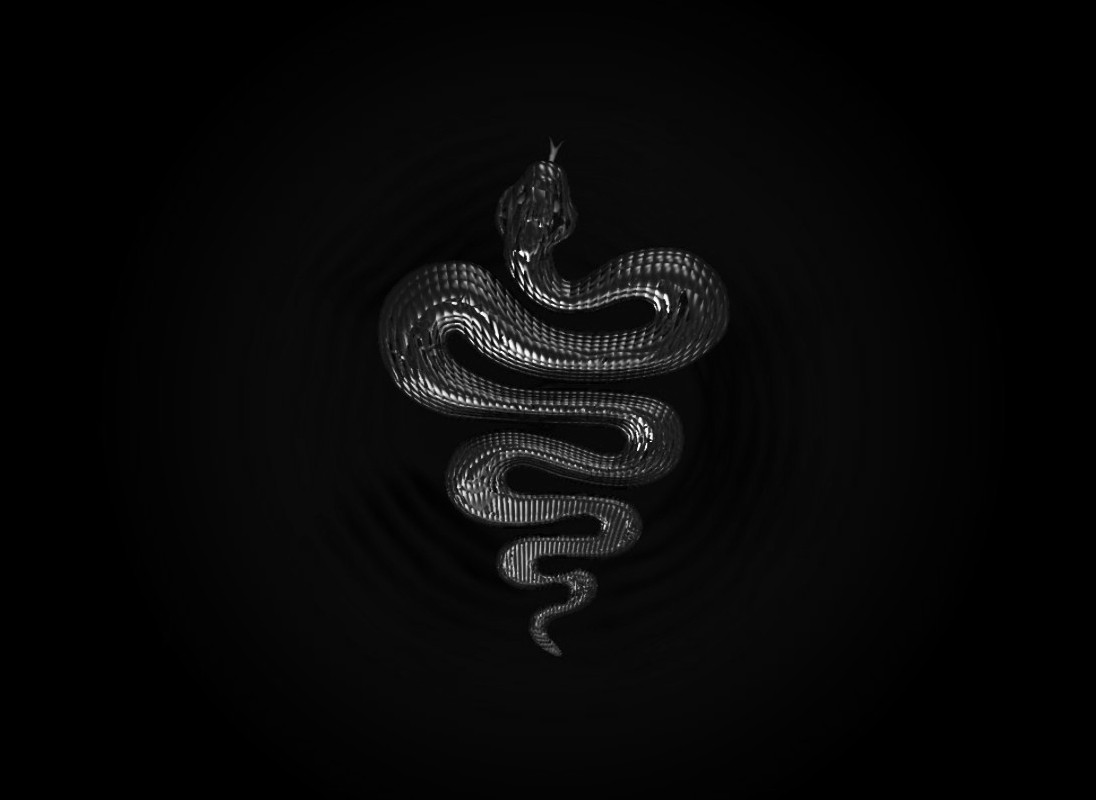
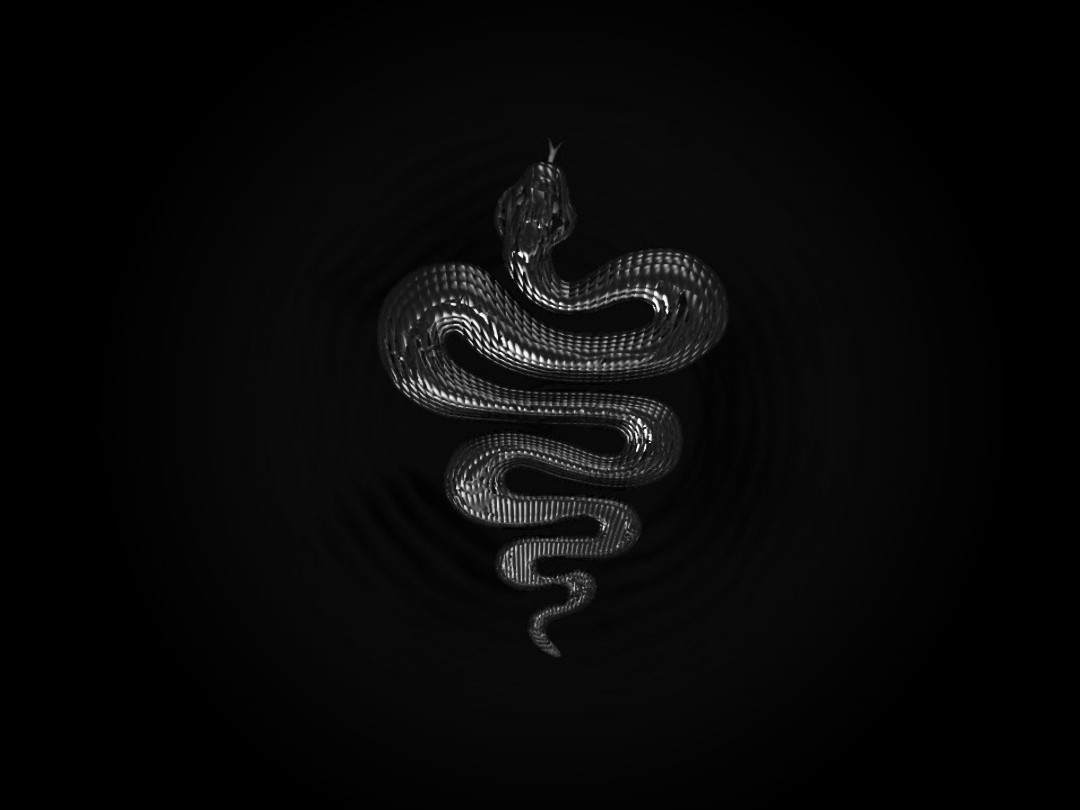
rozmiar okienka

Changed region(s): [[0.3361, 0.1562, 0.6722, 0.8125]]

diff --git a/src/main/java/com/game/GamePanel.java b/src/main/java/com/game/GamePanel.java
@@ -1,5 +1,7 @@
 package com.game;
 
+import com.gui.RootPanel;
+
 import javax.swing.*;
 import java.awt.*;
 import java.awt.event.ActionEvent;
@@ -12,8 +14,8 @@ import static java.awt.Color.*;
 
 public class GamePanel extends JPanel implements ActionListener {
 
-    private static final int SCREEN_HEIGHT = 800;
-    private static final int SCREEN_WIDTH = 1000;
+    private static final int SCREEN_HEIGHT = 810;
+    private static final int SCREEN_WIDTH = 1080;
     private static final int UNIT = 30;
     private static final int GAME_UNIT = (SCREEN_HEIGHT * SCREEN_WIDTH) / UNIT;
     private int[] snakeX = new int[GAME_UNIT];
@@ -27,9 +29,11 @@ public class GamePanel extends JPanel implements ActionListener {
     char direction = 'R';
     private static final int DELAY = 80;
     private int score = 0;
+    RootPanel rootPanel;
 
+    public GamePanel(RootPanel gameFrame) {
+        rootPanel = gameFrame;
 
-    public GamePanel() {
         setLayout(null);
         setBackground(BLACK);
         this.setFocusable(true);

diff --git a/src/main/java/com/gui/RootPanel.java b/src/main/java/com/gui/RootPanel.java
@@ -20,7 +20,7 @@ public class RootPanel extends JRootPane {
         signInMenu = new SignInMenu(this);
         signUpMenu = new SignUpMenu(this);
         scoreBoardMenu = new ScoreBoardMenu(this);
-        gamePanel = new GamePanel();
+        gamePanel = new GamePanel(this);
 
 
         contentPane.add(mainMenu);
@@ -63,6 +63,6 @@ public class RootPanel extends JRootPane {
 
     @Override
     public Dimension getPreferredSize() {
-        return new Dimension(1100, 800);
+        return new Dimension(1080, 810);
     }
 }

diff --git a/src/main/java/com/gui/MainMenu.java b/src/main/java/com/gui/MainMenu.java
@@ -16,7 +16,7 @@ public class MainMenu extends JPanel {
     public MainMenu(RootPanel gameFrame) {
         this.rootPanel = gameFrame;
 
-        setBackground(Color.BLACK);
+//        setBackground(Color.BLACK);
         try{
             backgroundImage = ImageIO.read(new File("src/images/MenuBackground.jpeg"));
         }catch (IOException e){
